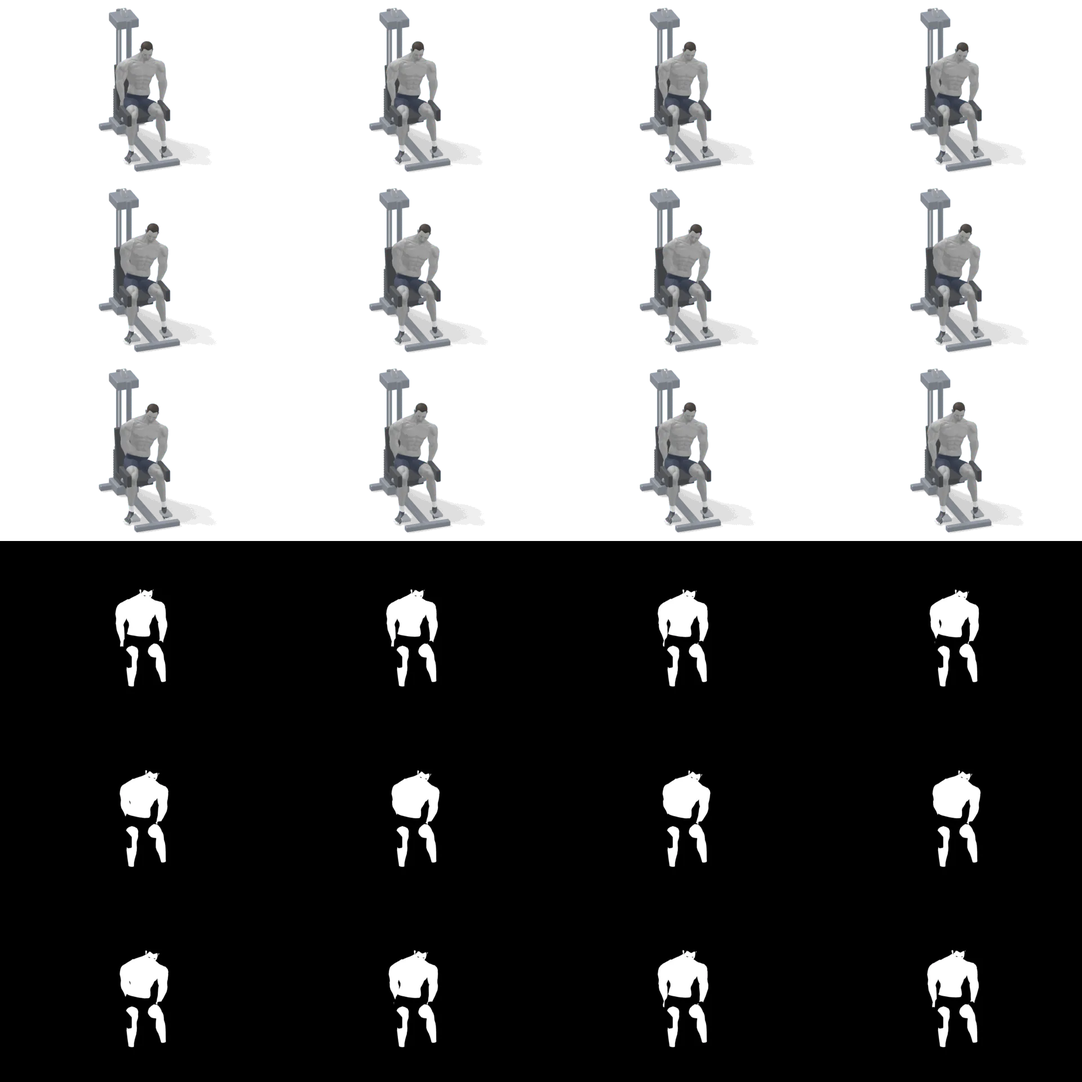
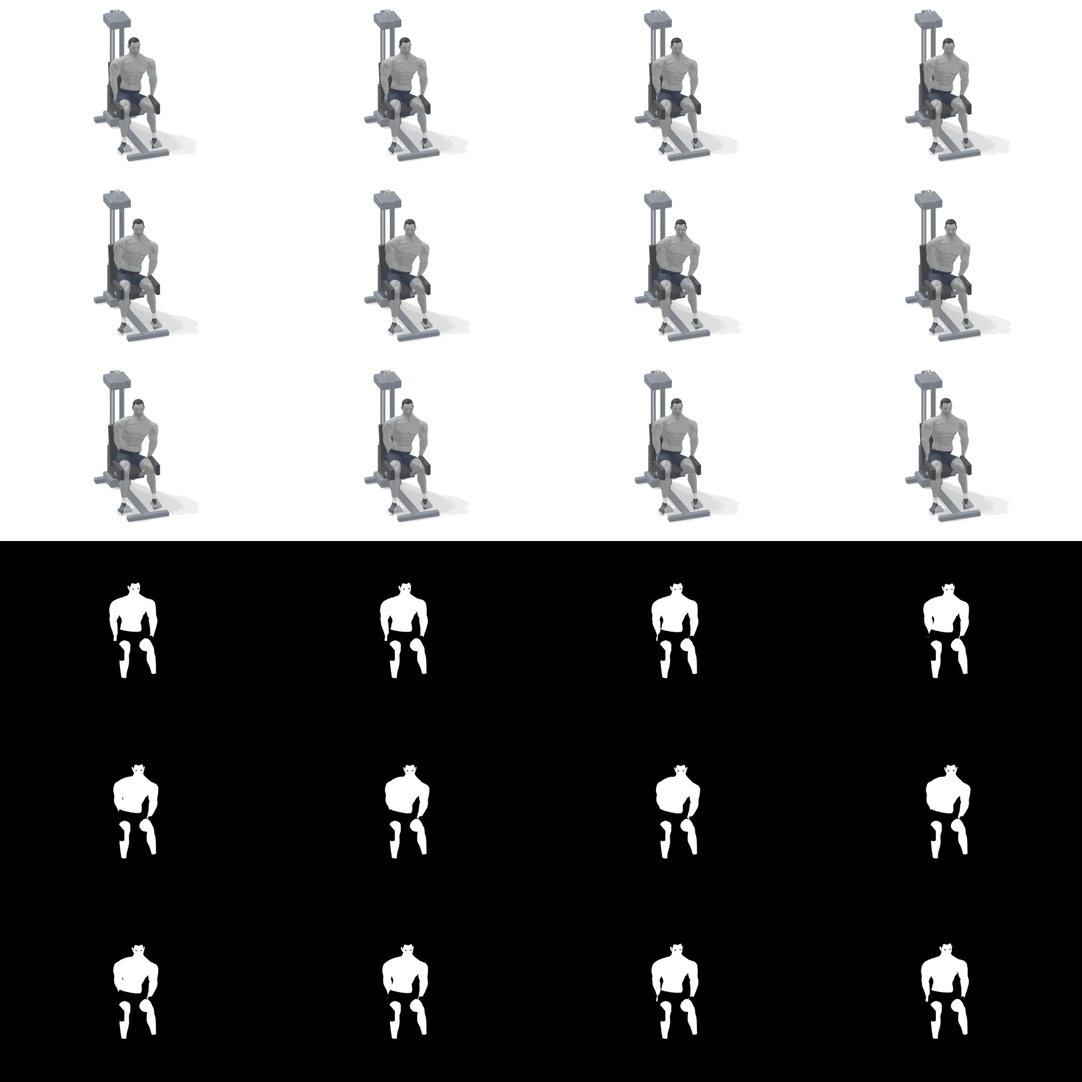
Fix 11 inaccurate demos found in the live-site sweep (v18)
Checked every demo against the original free-exercise-db GIFs (142) and the app's own cues (40 without a GIF):
- Bottoms-up kettlebell press: one bell, rack to overhead (a second bell floated in front of the face)
- Cable Y-raise: rises from the opposite hip to a true Y (stopped at a lateral raise)
- Lying leg raise (knees bent): bent knees, hands holding the bench behind the head (was straight legs)
- Cable woodchop / cable lift: real diagonal with chest rotation and knee bend (barely moved)
- Landmine rainbow: arc hip -> chin height -> other hip (barely moved)
- Hip hinge to wall (plain and loaded): flat back, neutral neck, hips back to the wall (back rounded)
- Elliptical: hands stay on the handles, upright torso (a hand left the handle, torso pitched over)
- Seated hip abduction machine: neutral head (head hung down and to the side)
- Glute squeezes: still PNG (isometric, nothing visibly moves)
- 90/90 hip switch: front camera so the side-to-side switch reads

diff --git a/index.html b/index.html
@@ -320,7 +320,7 @@ td:first-child{font:700 15px var(--f-display);white-space:nowrap;color:var(--acc
   </form>
 </dialog>
 
-<script src="track.js?v=17"></script><!-- ?v= forces a fresh copy past old service workers / HTTP cache; match sw.js VERSION -->
+<script src="track.js?v=18"></script><!-- ?v= forces a fresh copy past old service workers / HTTP cache; match sw.js VERSION -->
 <script>
 const ICONS = {
   play:'<polygon points="6 3 20 12 6 21 6 3"/>',
@@ -351,7 +351,7 @@ const demoLink = n => DEMO[n]
   : `<a class="iconlink" href="${yt(n)}" target="_blank" rel="noopener" aria-label="Watch ${esc(n)} demo (opens YouTube)">${ic("ext")}</a>`;
 // Exercise name -> demo template (demos/m|f/<template>.webp): Blender renders posed from reference-photo pose estimation (tools/).
 const DEMO = {"45° back extension (glute bias)":"back-extension","45° back extension (glute-focused)":"back-extension","90/90 hip switches":"hip-switch","Ab crunch machine":"machine-crunch","Ab roller":"ab-wheel","Ab wheel rollout (from knees)":"ab-wheel","Air bike or rower intervals":"air-bike","Assisted pull-up machine":"assisted-pullup","Band Pallof press":"pallof-press","Banded glute bridge, feet on couch":"band-bridge-couch","Banded lateral walk":"lateral-walk","Barbell RDL (light)":"bb-rdl","Barbell or dumbbell hip thrust":"hip-thrust","Barbell rollout (from knees)":"bb-rollout","Battle rope intervals":"battle-ropes","Bear plank shoulder taps":"bear-taps","Bench lat stretch":"childs-pose","Bench leg pull-in":"bench-pull-in","Bench pigeon stretch":"pigeon-bench","Bent-over rear-delt raise":"bentover-rear-delt","Bird dog":"bird-dog","Bird dog with light ankle weight":"bird-dog","Bodyweight tempo circuit":"mountain-climbers","Bottoms-up kettlebell press (light)":"kb-press","Brisk outdoor walk":"walk","Cable Pallof press":"pallof-press","Cable Y-raise (low pulley, single arm)":"cable-y-raise","Cable Y-raise, both arms":"cable-y-raise","Cable bird dog (ankle strap)":"cable-bird-dog","Cable dead bug":"cable-dead-bug","Cable external rotation":"cable-er","Cable face pull":"face-pull","Cable face pull (rope)":"face-pull","Cable face pull (rope, eye height)":"face-pull","Cable lat stretch":"cable-lat-stretch","Cable lift (low to high)":"cable-lift","Cable pec stretch":"cable-pec-stretch","Cable pull-through":"pull-through","Cable rear-delt fly":"cable-rear-delt-fly","Cable serratus punch":"cable-serratus","Cable standing hip abduction":"cable-hip-abd","Cable straight-arm pulldown":"straight-arm-pulldown","Cable woodchop (high to low)":"woodchop","Captain's chair knee raise":"captains-chair","Cat-cow + thread the needle":"cat-cow","Cat–cow":"cat-cow","Chair T-spine extension + world's greatest stretch + child's pose lat stretch":"t-spine-chair","Chest press machine (neutral grip)":"chest-press-machine","Chest-supported T-bar row":"tbar-row","Chest-supported dumbbell lat row":"db-incline-row","Chest-supported dumbbell row":"db-incline-row","Chest-supported machine row":"machine-row","Chest-supported machine row / T-bar row":"machine-row","Chest-supported rear-delt fly":"incline-rear-delt","Child's pose with side reach":"childs-pose","Chin tucks":"chin-tuck","Couch stretch":"couch-stretch","Couch stretch (bench version)":"couch-stretch-bench","Cross-body crunch":"cross-crunch","Crunch (small range)":"crunch","Dead bug":"dead-bug","Dead bug (slow)":"dead-bug","Door towel row":"door-towel-row","Door towel row (both hands)":"door-towel-row","Doorway or seated pec stretch":"pec-stretch","Doorway pec stretch":"pec-stretch","Dumbbell / kettlebell complex":"kb-complex","Dumbbell RDL":"db-rdl","Dumbbell Romanian deadlift":"db-rdl","Dumbbell dead bug":"db-dead-bug","Dumbbell farmer carry":"farmer-carry","Dumbbell floor press":"floor-press","Dumbbell glute bridge":"db-glute-bridge","Dumbbell or kettlebell farmer carry":"farmer-carry","Dumbbell pullover (bench)":"db-pullover","Dumbbell pullover (on bench)":"db-pullover","Dumbbell reverse lunge":"db-rev-lunge","Dumbbell step-down (low step)":"db-step-down","Dumbbell step-up (box knee-height or lower)":"step-up","Elliptical or bike":"elliptical","Elliptical or incline treadmill":"elliptical","Elliptical or stationary bike":"bike","Figure-4 stretch + hip flexor stretch":"figure-4","Floor Y-T-W, no weight":"floor-ytw","Floor snow angels":"snow-angel","Foam roller T-spine + world's greatest stretch + child's pose lat stretch":"t-spine-roller","Foam roller pec opener":"pec-opener","Front plank":"front-plank","Glute bridge":"glute-bridge","Glute squeezes":"glute-squeeze","Goblet box squat":"goblet-box-squat","Goblet reverse lunge":"goblet-rev-lunge","Goblet split squat":"goblet-split","Hack or pendulum squat (feet high)":"hack-squat","Half-kneeling cable Pallof press":"hk-pallof","Half-kneeling hip flexor stretch":"hk-hip-flexor","Half-kneeling landmine press":"landmine-press","Half-kneeling single-arm dumbbell press":"hk-db-press","Hamstring stretch on bench + couch stretch":"bench-ham","Heavy cable pull-through":"pull-through","Heels-elevated goblet squat to box":"heels-up-goblet","High-incline Smith press":"smith-incline-high","Hip hinge to wall":"hip-hinge-wall","Hip thrust / glute drive machine":"glute-drive","Incline dumbbell Y-raise":"incline-y-raise","Incline prone Y-T-W":"incline-ytw","Incline prone rear-delt raise":"incline-rear-delt","Incline treadmill intervals":"treadmill","Incline treadmill walk":"treadmill","Incline treadmill walk (5–10%)":"treadmill","Kettlebell deadlift":"kb-deadlift","Kettlebell pullover":"kb-pullover","Kettlebell swing intervals":"kb-swing","Kettlebell tempo circuit":"kb-complex","Kneeling cable crunch":"cable-crunch","Landmine Pallof / anti-rotation":"landmine-pallof","Landmine rainbows (180s)":"landmine-rainbow","Landmine row (single arm)":"landmine-row","Lat pulldown (light, slow)":"lat-pulldown","Lat pulldown (neutral or wide grip, to chest)":"lat-pulldown","Lateral step-up (low box)":"lateral-step-up","Leg extension (partial range)":"leg-extension","Leg press (feet high)":"leg-press","Leg press (feet mid-to-high on platform)":"leg-press","Loaded backpack or shopping-bag carry":"bag-carry","Loaded hip hinge to wall":"loaded-hinge-wall","Low-impact interval circuit":"mountain-climbers","Low-incline Smith press":"smith-incline-low","Low-incline dumbbell press (15–30°, neutral grip)":"incline-db-press","Lying hamstring stretch (towel) + couch stretch":"lying-ham-towel","Lying leg raise on bench (knees bent)":"lying-leg-raise","Machine high row":"machine-high-row","McGill curl-up":"mcgill","Mini-band W pull-apart":"band-w","Mini-band lateral walk or clamshell":"lateral-walk","Mini-band pull-apart":"band-pull-apart","Mountain climbers (slow)":"mountain-climbers","Multi-hip machine (abduction)":"multi-hip","Neutral-grip machine shoulder press (partial)":"shoulder-press-machine","Pallof press with rotation":"pallof-rotation","Pause push-up":"push-up","Plank shoulder taps":"shoulder-taps","Plank with reach":"plank-reach","Plate crunch":"plate-crunch","Plate pinch carry":"plate-pinch","Plate-loaded low row":"machine-row","Prone T raise":"prone-t","Prone W lift":"prone-w","Prone Y-T-W on incline bench (1–2 kg)":"incline-ytw","Prone floor row":"prone-row","Prone swimmers":"swimmers","Prone towel pulldown":"prone-towel-pulldown","Pull-up bar negatives":"pullup-negative","Push-up (hands elevated if needed)":"incline-push-up","Push-up on dumbbell handles":"push-up-db","Push-up plus":"push-up-plus","Push-up to side plank":"push-up-side-plank","Rear-foot-elevated split squat":"rfess","Reverse crunch":"reverse-crunch","Reverse lunge":"rev-lunge","Reverse pec deck":"reverse-pec-deck","Reverse pec deck (light)":"reverse-pec-deck","Rower (easy)":"rower","Rower, bike or elliptical tempo":"rower","Ruck walk (backpack 5–10 kg)":"ruck-walk","Seal row":"seal-row","Seated cable chin tuck (light)":"cable-chin-tuck","Seated cable row (neutral grip)":"seated-cable-row","Seated cable row (wide grip)":"seated-cable-row-wide","Seated hip abduction machine":"abductor-machine","Seated leg pull-in":"seated-pull-in","Shoulder blade squeezes":"scap-squeeze","Side hold on 45° back-extension bench":"side-hold-bench","Side plank (knees or feet)":"side-plank","Side plank clamshell":"clamshell","Side-lying dumbbell external rotation":"side-lying-er","Side-lying hip abduction (ankle weight)":"side-lying-abd","Single-arm cable hold":"cable-hold","Single-arm cable press (low-to-high)":"single-arm-cable-press","Single-arm cable row":"single-arm-cable-row","Single-arm door towel row":"door-towel-row-1arm","Single-arm dumbbell bench press":"db-bench-1arm","Single-arm dumbbell row":"one-arm-db-row","Single-arm dumbbell row (bench-supported)":"one-arm-db-row","Single-arm farmer carry":"suitcase","Single-arm kneeling cable pulldown":"kneel-cable-pulldown","Single-leg RDL":"single-leg-rdl","Single-leg RDL (hold a support)":"single-leg-rdl-support","Single-leg glute bridge":"single-leg-bridge","Single-leg hip thrust":"single-leg-hip-thrust","Single-leg leg press":"leg-press-single","Ski erg or elliptical intervals":"ski-erg","Ski erg or incline treadmill tempo":"ski-erg","Slow reverse lunge":"rev-lunge","Slow step-down from stairs":"stair-step-down","Smith machine RDL":"smith-rdl","Smith machine hip thrust":"smith-hip-thrust","Smith machine split squat":"smith-split","Stair climber (slow)":"stair-climber","Stair intervals":"step-mill","Stair step-up":"stair-step","Standing cable chest press":"standing-cable-press","Standing hip flexor stretch":"standing-hip-flexor","Stationary bike or rower":"bike","Suitcase carry":"suitcase","Suitcase hold":"suitcase-hold","Supine chin tuck + head lift":"supine-chin-tuck","Supine dumbbell punch":"supine-punch","Supported split squat":"supported-split","Swiss-ball crunch":"ball-crunch","Swiss-ball dead bug":"ball-dead-bug","Thoracic extension over chair":"t-spine-chair","Thoracic open book":"open-book","Trap-bar carry":"trap-bar-carry","Trap-bar deadlift (or kettlebell deadlift)":"trap-bar-deadlift","Tucked hollow hold":"tuck-hollow","Wall Y-slide with lift-off":"wall-slide-liftoff","Wall chin tuck":"wall-chin-tuck","Wall sit or slow squat to a chair":"chair-squat","Wall slide with lift-off":"wall-slide-liftoff","Wall slide with reach":"wall-slides","Wall slides":"wall-slides"};
-const DM = {"ab-wheel":[12,6,0,"04157d63"],"abductor-machine":[12,6,0,"08dbeee8"],"air-bike":[20,10,1,"ef8da77a"],"assisted-pullup":[12,3,0,"d32e5da4"],"back-extension":[12,6,0,"2baed2c1"],"bag-carry":[20,5,1,"649752aa"],"ball-crunch":[12,6,0,"6082cba6"],"ball-dead-bug":[12,6,0,"13aa9823"],"band-bridge-couch":[12,6,0,"3aa403e6"],"band-pull-apart":[12,6,0,"a747c2ea"],"band-w":[12,6,0,"419d34d5"],"battle-ropes":[16,8,1,"e16ce9a7"],"bb-rdl":[12,6,0,"cd48ec74"],"bb-rollout":[12,6,0,"61dc7bcc"],"bear-taps":[24,6,0,"023226e5"],"bench-ham":[12,6,0,"84fd7fd6"],"bench-pull-in":[12,6,0,"d61e423b"],"bentover-rear-delt":[12,6,0,"af45bcfa"],"bike":[20,10,1,"4a4b0d1c"],"bird-dog":[24,6,0,"4790b508"],"cable-bird-dog":[12,6,0,"3b47f4b5"],"cable-chin-tuck":[12,6,0,"78b33fec"],"cable-crunch":[12,6,0,"d258c78b"],"cable-dead-bug":[12,6,0,"5bc3c6b1"],"cable-er":[12,6,0,"7570c8d7"],"cable-hip-abd":[12,6,0,"f1487655"],"cable-hold":[1,1,0,"9ea8719c"],"cable-lat-stretch":[1,1,0,"fd498a4e"],"cable-lift":[12,6,0,"c0871748"],"cable-pec-stretch":[1,1,0,"3d273366"],"cable-rear-delt-fly":[12,6,0,"8b43968a"],"cable-serratus":[12,6,0,"4b46eb96"],"cable-y-raise":[12,6,0,"31daa8d9"],"captains-chair":[12,6,0,"423697fc"],"cat-cow":[12,6,0,"32bfec7b"],"chair-squat":[12,6,0,"e553b6c4"],"chest-press-machine":[12,6,0,"ad7b5b66"],"childs-pose":[1,1,0,"2263ab22"],"chin-tuck":[12,6,0,"7b145f5b"],"clamshell":[12,6,0,"fe9556bf"],"couch-stretch":[1,1,0,"8995c743"],"couch-stretch-bench":[1,1,0,"9b0b6989"],"cross-crunch":[12,6,0,"9557d70e"],"crunch":[12,6,0,"04d2424b"],"db-bench-1arm":[12,6,0,"1038689d"],"db-dead-bug":[12,6,0,"be987f25"],"db-glute-bridge":[12,6,0,"962c2a43"],"db-incline-row":[12,6,0,"4c02fd8b"],"db-pullover":[12,6,0,"429122db"],"db-rdl":[12,6,0,"c226ed4d"],"db-rev-lunge":[12,6,0,"d279467c"],"db-step-down":[24,6,0,"602ce235"],"dead-bug":[24,6,0,"01f9ab5c"],"door-towel-row":[12,6,0,"7fedc8b3"],"door-towel-row-1arm":[12,6,0,"02e25d63"],"elliptical":[20,10,1,"df1e8f9e"],"face-pull":[12,6,0,"cc5821ed"],"farmer-carry":[20,5,1,"fa7da248"],"figure-4":[12,6,0,"984f3c10"],"floor-press":[12,6,0,"c222efea"],"floor-ytw":[24,6,0,"11c3e7f1"],"front-plank":[1,1,0,"12f0dce8"],"glute-bridge":[12,6,0,"df6e36a9"],"glute-drive":[12,6,0,"0d368994"],"glute-squeeze":[12,6,0,"f8eb89ba"],"goblet-box-squat":[12,6,0,"b054e9f8"],"goblet-rev-lunge":[12,6,0,"570ecb92"],"goblet-split":[12,6,0,"c360b8bd"],"hack-squat":[12,6,0,"959d14dd"],"heels-up-goblet":[12,6,0,"e1c172cb"],"hip-hinge-wall":[12,6,0,"25cbee79"],"hip-switch":[24,1,0,"7a0166cd"],"hip-thrust":[12,6,0,"d7341657"],"hk-db-press":[12,6,0,"dfbd5065"],"hk-hip-flexor":[1,1,0,"a4e17236"],"hk-pallof":[12,6,0,"fd233b3b"],"incline-db-press":[12,6,0,"0e6e58e2"],"incline-push-up":[12,6,0,"9ac56b66"],"incline-rear-delt":[12,6,0,"bdd3b4e5"],"incline-y-raise":[12,6,0,"e527a8a6"],"incline-ytw":[24,6,0,"a282a12a"],"kb-complex":[12,6,0,"abcbcdf8"],"kb-deadlift":[12,6,0,"82306df7"],"kb-press":[12,6,0,"373a0bc0"],"kb-pullover":[12,6,0,"09c04342"],"kb-swing":[12,6,0,"1b7d38bf"],"kneel-cable-pulldown":[12,6,0,"3c515109"],"landmine-pallof":[12,6,0,"a0bf552e"],"landmine-press":[12,6,0,"bfd72fc7"],"landmine-rainbow":[12,6,0,"c9af957f"],"landmine-row":[12,6,0,"3efebed3"],"lat-pulldown":[12,6,0,"370de8bf"],"lateral-step-up":[16,4,0,"03e78709"],"lateral-walk":[12,6,0,"ae04784c"],"leg-extension":[12,6,0,"c9fe5c4d"],"leg-press":[12,6,0,"d582e981"],"leg-press-single":[12,6,0,"ff902e9a"],"loaded-hinge-wall":[12,6,0,"38b005b0"],"lying-ham-towel":[12,6,0,"9e760b55"],"lying-leg-raise":[12,6,0,"314c45aa"],"machine-crunch":[12,6,0,"e8840d5a"],"machine-high-row":[12,3,0,"261b8353"],"machine-row":[12,6,0,"e36314d3"],"mcgill":[12,6,0,"f26c6db4"],"mountain-climbers":[24,6,1,"e07eaf0f"],"multi-hip":[12,6,0,"a7724a08"],"one-arm-db-row":[12,6,0,"9ee4d7f9"],"open-book":[24,6,0,"86cce6dd"],"pallof-press":[12,6,0,"f22becdc"],"pallof-rotation":[12,6,0,"d9b7b69c"],"pec-opener":[1,1,0,"fc62384b"],"pec-stretch":[1,1,0,"b4a8e046"],"pigeon-bench":[1,1,0,"1fbd36f4"],"plank-reach":[24,6,0,"ba8d5c79"],"plate-crunch":[12,6,0,"c7b36e64"],"plate-pinch":[20,5,1,"9bdad260"],"prone-row":[36,6,0,"1db5cf0e"],"prone-t":[12,6,0,"a7b8d4f2"],"prone-towel-pulldown":[12,6,0,"51333755"],"prone-w":[12,6,0,"f5db5aff"],"pull-through":[12,6,0,"4ddef46e"],"pullup-negative":[12,6,0,"d0729676"],"push-up":[12,6,0,"908bcf9f"],"push-up-db":[12,6,0,"408c3277"],"push-up-plus":[12,6,0,"2328b5e1"],"push-up-side-plank":[12,6,0,"a467657b"],"rev-lunge":[12,6,0,"dcb1dc80"],"reverse-crunch":[12,6,0,"09cdebb5"],"reverse-pec-deck":[12,6,0,"52e2f9e0"],"rfess":[12,6,0,"d13f2876"],"rower":[12,6,1,"b6f84e14"],"ruck-walk":[20,5,1,"5fe6ab90"],"scap-squeeze":[12,6,0,"a44d7e12"],"seal-row":[12,6,0,"f68e6b1f"],"seated-cable-row":[12,6,0,"945d9e71"],"seated-cable-row-wide":[12,6,0,"fdd08582"],"seated-pull-in":[12,6,0,"143993cd"],"shoulder-press-machine":[12,6,0,"27937f00"],"shoulder-taps":[24,6,0,"4958ac50"],"side-hold-bench":[1,1,0,"ac5294bf"],"side-lying-abd":[12,6,0,"23814436"],"side-lying-er":[12,6,0,"5fce7b84"],"side-plank":[1,1,0,"d21e6c03"],"single-arm-cable-press":[12,6,0,"fffff457"],"single-arm-cable-row":[12,6,0,"b27fa4a8"],"single-leg-bridge":[12,6,0,"478a11f8"],"single-leg-hip-thrust":[12,6,0,"1721f624"],"single-leg-rdl":[12,6,0,"8a527c5b"],"single-leg-rdl-support":[12,6,0,"bc8f7cfe"],"ski-erg":[12,6,1,"feda9ea2"],"smith-hip-thrust":[12,6,0,"8c52f3b4"],"smith-incline-high":[12,6,0,"36252a0f"],"smith-incline-low":[12,6,0,"c27a6fe0"],"smith-rdl":[12,6,0,"c1dc5bf6"],"smith-split":[12,6,0,"bdd9bcc2"],"snow-angel":[24,6,0,"69ba30f7"],"stair-climber":[12,6,0,"19234995"],"stair-step":[12,6,0,"04731b4c"],"stair-step-down":[24,6,0,"b4c5b9f4"],"standing-cable-press":[12,6,0,"5207215b"],"standing-hip-flexor":[12,6,0,"46cc2da7"],"step-mill":[16,8,1,"6cecf742"],"step-up":[24,6,0,"de7da4f5"],"straight-arm-pulldown":[12,6,0,"38937455"],"suitcase":[20,5,1,"bcbfff31"],"suitcase-hold":[1,1,0,"756bca6b"],"supine-chin-tuck":[12,6,0,"e340a879"],"supine-punch":[12,6,0,"f57860fe"],"supported-split":[12,6,0,"48d813f9"],"swimmers":[36,6,0,"d6e8a2ee"],"t-spine-chair":[12,6,0,"96c84926"],"t-spine-roller":[12,6,0,"d0429058"],"tbar-row":[12,3,0,"def05b7f"],"trap-bar-carry":[20,5,1,"95fa36cc"],"trap-bar-deadlift":[12,6,0,"4d2c6c25"],"treadmill":[20,5,1,"d4b882ef"],"tuck-hollow":[1,1,0,"c7b6b33a"],"walk":[20,5,1,"4bed2087"],"wall-chin-tuck":[12,6,0,"0a9dcbc1"],"wall-slide-liftoff":[24,6,0,"f1c28682"],"wall-slides":[12,6,0,"fd9106fa"],"woodchop":[12,6,0,"e68698f7"]}; // template -> [frames, frames per key, cyclic, sprite hash]
+const DM = {"ab-wheel":[12,6,0,"04157d63"],"abductor-machine":[12,6,0,"d08b5142"],"air-bike":[20,10,1,"ef8da77a"],"assisted-pullup":[12,3,0,"d32e5da4"],"back-extension":[12,6,0,"2baed2c1"],"bag-carry":[20,5,1,"649752aa"],"ball-crunch":[12,6,0,"6082cba6"],"ball-dead-bug":[12,6,0,"13aa9823"],"band-bridge-couch":[12,6,0,"3aa403e6"],"band-pull-apart":[12,6,0,"a747c2ea"],"band-w":[12,6,0,"419d34d5"],"battle-ropes":[16,8,1,"e16ce9a7"],"bb-rdl":[12,6,0,"cd48ec74"],"bb-rollout":[12,6,0,"61dc7bcc"],"bear-taps":[24,6,0,"023226e5"],"bench-ham":[12,6,0,"84fd7fd6"],"bench-pull-in":[12,6,0,"d61e423b"],"bentover-rear-delt":[12,6,0,"af45bcfa"],"bike":[20,10,1,"4a4b0d1c"],"bird-dog":[24,6,0,"4790b508"],"cable-bird-dog":[12,6,0,"3b47f4b5"],"cable-chin-tuck":[12,6,0,"78b33fec"],"cable-crunch":[12,6,0,"d258c78b"],"cable-dead-bug":[12,6,0,"5bc3c6b1"],"cable-er":[12,6,0,"7570c8d7"],"cable-hip-abd":[12,6,0,"f1487655"],"cable-hold":[1,1,0,"9ea8719c"],"cable-lat-stretch":[1,1,0,"fd498a4e"],"cable-lift":[12,6,0,"6d50e640"],"cable-pec-stretch":[1,1,0,"3d273366"],"cable-rear-delt-fly":[12,6,0,"8b43968a"],"cable-serratus":[12,6,0,"4b46eb96"],"cable-y-raise":[12,6,0,"611119bc"],"captains-chair":[12,6,0,"423697fc"],"cat-cow":[12,6,0,"32bfec7b"],"chair-squat":[12,6,0,"e553b6c4"],"chest-press-machine":[12,6,0,"ad7b5b66"],"childs-pose":[1,1,0,"2263ab22"],"chin-tuck":[12,6,0,"7b145f5b"],"clamshell":[12,6,0,"fe9556bf"],"couch-stretch":[1,1,0,"8995c743"],"couch-stretch-bench":[1,1,0,"9b0b6989"],"cross-crunch":[12,6,0,"9557d70e"],"crunch":[12,6,0,"04d2424b"],"db-bench-1arm":[12,6,0,"1038689d"],"db-dead-bug":[12,6,0,"be987f25"],"db-glute-bridge":[12,6,0,"962c2a43"],"db-incline-row":[12,6,0,"4c02fd8b"],"db-pullover":[12,6,0,"429122db"],"db-rdl":[12,6,0,"c226ed4d"],"db-rev-lunge":[12,6,0,"d279467c"],"db-step-down":[24,6,0,"602ce235"],"dead-bug":[24,6,0,"01f9ab5c"],"door-towel-row":[12,6,0,"7fedc8b3"],"door-towel-row-1arm":[12,6,0,"02e25d63"],"elliptical":[20,10,1,"6783b2f8"],"face-pull":[12,6,0,"cc5821ed"],"farmer-carry":[20,5,1,"fa7da248"],"figure-4":[12,6,0,"984f3c10"],"floor-press":[12,6,0,"c222efea"],"floor-ytw":[24,6,0,"11c3e7f1"],"front-plank":[1,1,0,"12f0dce8"],"glute-bridge":[12,6,0,"df6e36a9"],"glute-drive":[12,6,0,"0d368994"],"glute-squeeze":[1,1,0,"68c3fc94"],"goblet-box-squat":[12,6,0,"b054e9f8"],"goblet-rev-lunge":[12,6,0,"570ecb92"],"goblet-split":[12,6,0,"c360b8bd"],"hack-squat":[12,6,0,"959d14dd"],"heels-up-goblet":[12,6,0,"e1c172cb"],"hip-hinge-wall":[12,6,0,"aeb089cb"],"hip-switch":[24,1,0,"c131510e"],"hip-thrust":[12,6,0,"d7341657"],"hk-db-press":[12,6,0,"dfbd5065"],"hk-hip-flexor":[1,1,0,"a4e17236"],"hk-pallof":[12,6,0,"fd233b3b"],"incline-db-press":[12,6,0,"0e6e58e2"],"incline-push-up":[12,6,0,"9ac56b66"],"incline-rear-delt":[12,6,0,"bdd3b4e5"],"incline-y-raise":[12,6,0,"e527a8a6"],"incline-ytw":[24,6,0,"a282a12a"],"kb-complex":[12,6,0,"abcbcdf8"],"kb-deadlift":[12,6,0,"82306df7"],"kb-press":[12,6,0,"66e9b89c"],"kb-pullover":[12,6,0,"09c04342"],"kb-swing":[12,6,0,"1b7d38bf"],"kneel-cable-pulldown":[12,6,0,"3c515109"],"landmine-pallof":[12,6,0,"a0bf552e"],"landmine-press":[12,6,0,"bfd72fc7"],"landmine-rainbow":[24,6,0,"809426cd"],"landmine-row":[12,6,0,"3efebed3"],"lat-pulldown":[12,6,0,"370de8bf"],"lateral-step-up":[16,4,0,"03e78709"],"lateral-walk":[12,6,0,"ae04784c"],"leg-extension":[12,6,0,"c9fe5c4d"],"leg-press":[12,6,0,"d582e981"],"leg-press-single":[12,6,0,"ff902e9a"],"loaded-hinge-wall":[12,6,0,"865764bb"],"lying-ham-towel":[12,6,0,"9e760b55"],"lying-leg-raise":[12,6,0,"326905a5"],"machine-crunch":[12,6,0,"e8840d5a"],"machine-high-row":[12,3,0,"261b8353"],"machine-row":[12,6,0,"e36314d3"],"mcgill":[12,6,0,"f26c6db4"],"mountain-climbers":[24,6,1,"e07eaf0f"],"multi-hip":[12,6,0,"a7724a08"],"one-arm-db-row":[12,6,0,"9ee4d7f9"],"open-book":[24,6,0,"86cce6dd"],"pallof-press":[12,6,0,"f22becdc"],"pallof-rotation":[12,6,0,"d9b7b69c"],"pec-opener":[1,1,0,"fc62384b"],"pec-stretch":[1,1,0,"b4a8e046"],"pigeon-bench":[1,1,0,"1fbd36f4"],"plank-reach":[24,6,0,"ba8d5c79"],"plate-crunch":[12,6,0,"c7b36e64"],"plate-pinch":[20,5,1,"9bdad260"],"prone-row":[36,6,0,"1db5cf0e"],"prone-t":[12,6,0,"a7b8d4f2"],"prone-towel-pulldown":[12,6,0,"51333755"],"prone-w":[12,6,0,"f5db5aff"],"pull-through":[12,6,0,"4ddef46e"],"pullup-negative":[12,6,0,"d0729676"],"push-up":[12,6,0,"908bcf9f"],"push-up-db":[12,6,0,"408c3277"],"push-up-plus":[12,6,0,"2328b5e1"],"push-up-side-plank":[12,6,0,"a467657b"],"rev-lunge":[12,6,0,"dcb1dc80"],"reverse-crunch":[12,6,0,"09cdebb5"],"reverse-pec-deck":[12,6,0,"52e2f9e0"],"rfess":[12,6,0,"d13f2876"],"rower":[12,6,1,"b6f84e14"],"ruck-walk":[20,5,1,"5fe6ab90"],"scap-squeeze":[12,6,0,"a44d7e12"],"seal-row":[12,6,0,"f68e6b1f"],"seated-cable-row":[12,6,0,"945d9e71"],"seated-cable-row-wide":[12,6,0,"fdd08582"],"seated-pull-in":[12,6,0,"143993cd"],"shoulder-press-machine":[12,6,0,"27937f00"],"shoulder-taps":[24,6,0,"4958ac50"],"side-hold-bench":[1,1,0,"ac5294bf"],"side-lying-abd":[12,6,0,"23814436"],"side-lying-er":[12,6,0,"5fce7b84"],"side-plank":[1,1,0,"d21e6c03"],"single-arm-cable-press":[12,6,0,"fffff457"],"single-arm-cable-row":[12,6,0,"b27fa4a8"],"single-leg-bridge":[12,6,0,"478a11f8"],"single-leg-hip-thrust":[12,6,0,"1721f624"],"single-leg-rdl":[12,6,0,"8a527c5b"],"single-leg-rdl-support":[12,6,0,"bc8f7cfe"],"ski-erg":[12,6,1,"feda9ea2"],"smith-hip-thrust":[12,6,0,"8c52f3b4"],"smith-incline-high":[12,6,0,"36252a0f"],"smith-incline-low":[12,6,0,"c27a6fe0"],"smith-rdl":[12,6,0,"c1dc5bf6"],"smith-split":[12,6,0,"bdd9bcc2"],"snow-angel":[24,6,0,"69ba30f7"],"stair-climber":[12,6,0,"19234995"],"stair-step":[12,6,0,"04731b4c"],"stair-step-down":[24,6,0,"b4c5b9f4"],"standing-cable-press":[12,6,0,"5207215b"],"standing-hip-flexor":[12,6,0,"46cc2da7"],"step-mill":[16,8,1,"6cecf742"],"step-up":[24,6,0,"de7da4f5"],"straight-arm-pulldown":[12,6,0,"38937455"],"suitcase":[20,5,1,"bcbfff31"],"suitcase-hold":[1,1,0,"756bca6b"],"supine-chin-tuck":[12,6,0,"e340a879"],"supine-punch":[12,6,0,"f57860fe"],"supported-split":[12,6,0,"48d813f9"],"swimmers":[36,6,0,"d6e8a2ee"],"t-spine-chair":[12,6,0,"96c84926"],"t-spine-roller":[12,6,0,"d0429058"],"tbar-row":[12,3,0,"def05b7f"],"trap-bar-carry":[20,5,1,"95fa36cc"],"trap-bar-deadlift":[12,6,0,"4d2c6c25"],"treadmill":[20,5,1,"d4b882ef"],"tuck-hollow":[1,1,0,"c7b6b33a"],"walk":[20,5,1,"4bed2087"],"wall-chin-tuck":[12,6,0,"0a9dcbc1"],"wall-slide-liftoff":[24,6,0,"f1c28682"],"wall-slides":[12,6,0,"fd9106fa"],"woodchop":[12,6,0,"9108f01b"]}; // template -> [frames, frames per key, cyclic, sprite hash]
 const demoCanvas = n => `<canvas data-demo="${DEMO[n]}" width="480" height="320" role="img" aria-label="${esc(n)} demonstration"></canvas>`;
 const yt = q => "https://www.youtube.com/results?search_query=" + encodeURIComponent(q + " proper form");
 

diff --git a/sw.js b/sw.js
@@ -1,6 +1,6 @@
 // Bump VERSION after editing any (non-demo) file; it derives the precached track.js?v= below too, so
 // also bump the matching <script src="track.js?v="> in index.html to the same number.
-const VERSION = "v17";
+const VERSION = "v18";
 const TRACKJS = "track.js?v=" + VERSION.slice(1);
 const CORE = ["./", "index.html", TRACKJS, "manifest.webmanifest", "icon.svg", "icon-192.png", "icon-512.png"];
 

diff --git a/tools/catalog.py b/tools/catalog.py
@@ -1673,3 +1673,55 @@ _t("cable-crunch").update(prop_headroom=1.5, cam=dict(az=-70, el=8, margin=1.3))
 # same N/H reads ~25 deg more extended on the female rig (chin to the ceiling at both ends): tuck hers to match; male top gets a slight extra tuck (gaze toward the knees)
 _t("glute-drive")["keys"] = _SexKeys([{**k, **({"N": k["N"] - 4, "H": k["H"] - 8} if i else {}), "_f": {"N": k["N"] - 12, "H": k["H"] - 26}}
                                       for i, k in enumerate(_t("glute-drive")["keys"])])
+
+# ---------- live-site sweep fixes (checked against the original free-exercise-db GIFs and the app's own cues) ----------
+_STAND = dict(T=180, N=180, H=180, legL=[0, 5, 0, 5], legR=[0, 5, 0, 5])
+# glute squeezes: an isometric squeeze, nothing visibly moves -> a single still (PNG), standing tall
+_t("glute-squeeze").update(keys=[P(**_STAND, **both([4, 8, 4, 6])), P(**_STAND, **both([4, 8, 4, 6]))], still=True, anchor={}, cam=dict(az=-30, el=8))
+# bottoms-up kettlebell press: ONE bell, bell above the fist; rack (upper arm down-forward, forearm vertical) -> straight overhead; free arm relaxed
+_t("kb-press").update(keys=[P(**_STAND, armL=[4, 10, 4, 8], armR=[22, 28, 176, 10]), P(**_STAND, armL=[4, 10, 4, 8], armR=[172, 12, 176, 10])],
+                      props=lambda J, J0, *a: kettlebell("kb_r", J["hand_r"], up=(0, 0, -1), side=(1, 0, 0)), hands=None, handR="grip", handL="relaxed",
+                      anchor={}, cam=dict(az=-30, el=8))
+# cable Y-raise: low pulley on the left, right hand starts in front of the left hip and rises up and out to a Y (~135 deg, scapular plane)
+_t("cable-y-raise").update(keys=[P(**_STAND, armL=[4, 10, 4, 8], armR=[22, -28, 26, -26]), P(**_STAND, armL=[4, 10, 4, 8], armR=[154, 36, 156, 36])],
+                           anchor={}, cam=dict(az=-10, el=8))
+# seated hip abduction: head neutral against the back pad (photo landmarks hung the head forward and tilted it)
+for _k in _t("abductor-machine")["keys"]: _k["fk_N"], _k["fk_H"] = 186, 184
+# lying leg raise, knees bent (app cue: hold the bench behind your head; raise bent knees, lower slowly)
+LLR = dict(T=270, N=268, H=264, anchor=BENCH)
+LLR_HANDS = {"hand_l": ("head", (-0.13, 0.15, -0.11), "world"), "hand_r": ("head", (-0.13, -0.15, -0.11), "world")}
+_t("lying-leg-raise").update(keys=[P(**LLR, **both([255, 22, 330, 10]), **legs([88, 4, 72, 4])), P(**LLR, **both([255, 22, 330, 10]), **legs([176, 4, 94, 4]))],
+                             reach=LLR_HANDS, hands="grip", stance=None, cam=dict(az=-88, el=8))
+# woodchop (high -> low) / cable lift (low -> high): a real diagonal, hands together on one handle, chest rotating with the arms, hips/feet square
+def _chop(hi, lo):   # hi/lo: hands' world offset from the pelvis at the high and low end
+    rh = lambda o: {"hand_l": ("pelvis", (o[0], o[1], o[2] - 0.035), "world"), "hand_r": ("pelvis", (o[0], o[1], o[2] + 0.035), "world")}
+    sh, sl = (1 if hi[1] > 0 else -1), (1 if lo[1] > 0 else -1)
+    hi_k = P(T=180, N=180, H=180, twist=34 * sh, legL=[2, 6, 0, 5], legR=[2, 6, 0, 5],
+             armL=[145, 35 * sh, 150, 30 * sh], armR=[145, -35 * sh, 150, -30 * sh], reach=rh(hi))
+    lo_k = P(T=160, N=158, H=158, twist=38 * sl, legL=[30, 6, -24, 5], legR=[30, 6, -24, 5],
+             armL=[30, 30 * sl, 25, 30 * sl], armR=[30, -30 * sl, 25, -30 * sl], reach=rh(lo))
+    return hi_k, lo_k
+_hi, _lo = _chop((0.28, -0.46, 0.92), (0.40, 0.44, -0.55))
+_t("woodchop").update(keys=[_hi, _lo], anchor={"x": ("ankle_r", None)}, stance=None, cam=dict(az=-12, el=8))
+_hi, _lo = _chop((0.28, -0.46, 0.92), (0.40, 0.44, -0.55))
+_t("cable-lift").update(keys=[_lo, _hi], anchor={"x": ("ankle_r", None)}, stance=None, cam=dict(az=-12, el=8))
+_t("cable-lift")["props"] = COL_SIDE(0.95, pz=0.25)
+# landmine rainbow: arms long, the sleeve end sweeps an arc hip -> over the forehead -> other hip; pelvis square, chest turns with the bar
+def _rb(o, tw, arm_l, arm_r):
+    return P(T=176, N=178, H=178, twist=tw, legL=[8, 8, -6, 6], legR=[8, 8, -6, 6], armL=arm_l, armR=arm_r,
+             reach={"hand_l": ("pelvis", (o[0], o[1], o[2] - 0.035), "world"), "hand_r": ("pelvis", (o[0], o[1], o[2] + 0.035), "world")})
+_t("landmine-rainbow").update(keys=[_rb((0.42, 0.40, 0.02), 25, [40, 30, 40, 30], [40, -10, 40, -10]), _rb((0.50, 0.0, 0.80), 0, [125, 6, 130, 6], [125, 6, 130, 6]),
+                                    _rb((0.42, -0.40, 0.02), -25, [40, -10, 40, -10], [40, 30, 40, 30])],
+                              pingpong=True, steps=6, anchor={"x": ("ankle_r", None)}, stance=None, cam=dict(az=-20, el=10))
+_t("landmine-rainbow")["props"] = lambda J, J0, *a: landmine("lm", V((J0["pelvis"].x + 1.45, 0, 0)), J["hands"], end=True)
+# elliptical: hands stay on the moving handles at chest height (one pushes while the other pulls), head up
+_EP, _EL = [55, 14, 100, 10], [12, 14, 95, 10]
+_EF, _EB = [30, 5, 0, 5], [-12, 5, -38, 5]   # front leg / rear leg (both feet on the pedals); torso tall, arms opposite the legs
+_t("elliptical").update(keys=[P(T=178, N=182, H=182, legL=_EF, legR=_EB, armL=_EL, armR=_EP), P(T=178, N=182, H=182, legL=_EB, legR=_EF, armL=_EP, armR=_EL)],
+                        anchor={}, stance=None)
+# hip hinge to wall: hips travel straight back to the wall with a FLAT back and neutral neck, shins near vertical, arms hang
+def _hinge(t): return P(T=t, S1=t, S2=t, S3=t, N=t + 4, H=t + 6, **both([0, 8, 0, 6]), **legs([15 if t < 170 else 2, 5, -4 if t < 170 else 0, 5]))
+for _n in ("hip-hinge-wall", "loaded-hinge-wall"):
+    _t(_n).update(keys=[_hinge(180), _hinge(118)], anchor={"x": ("ankle_r", None)}, stance=None, cam=dict(az=-70, el=8))
+# 90/90 hip switch: front-high camera so the knees visibly drop to one side, then the other
+_t("hip-switch")["cam"] = dict(az=-8, el=30)
